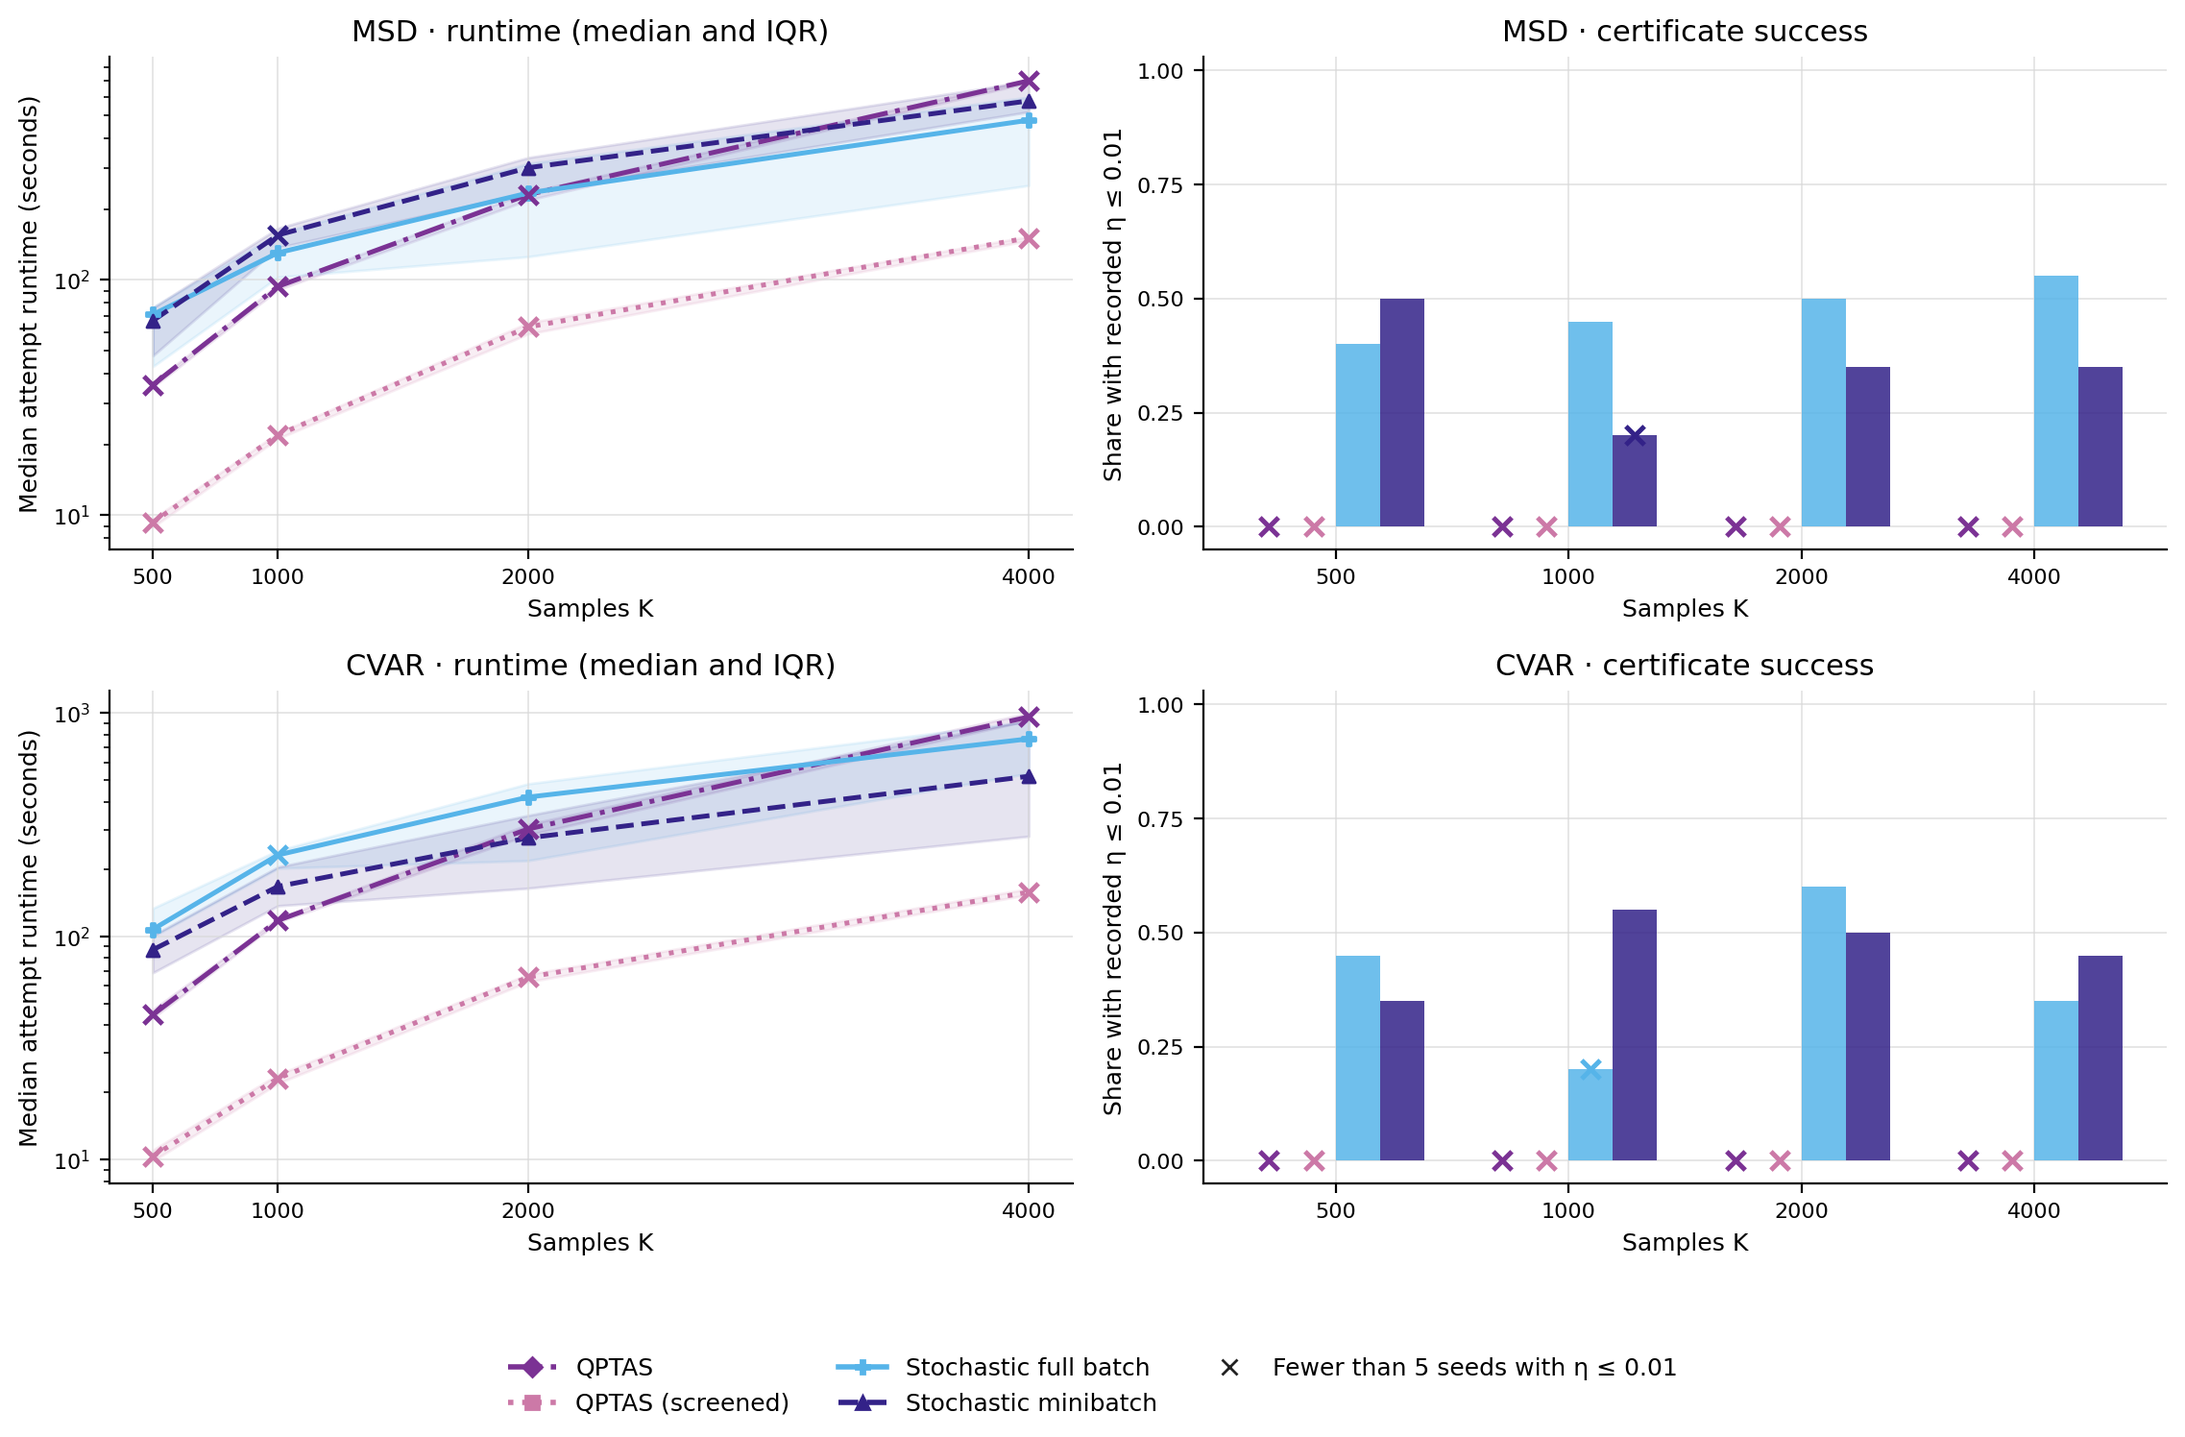
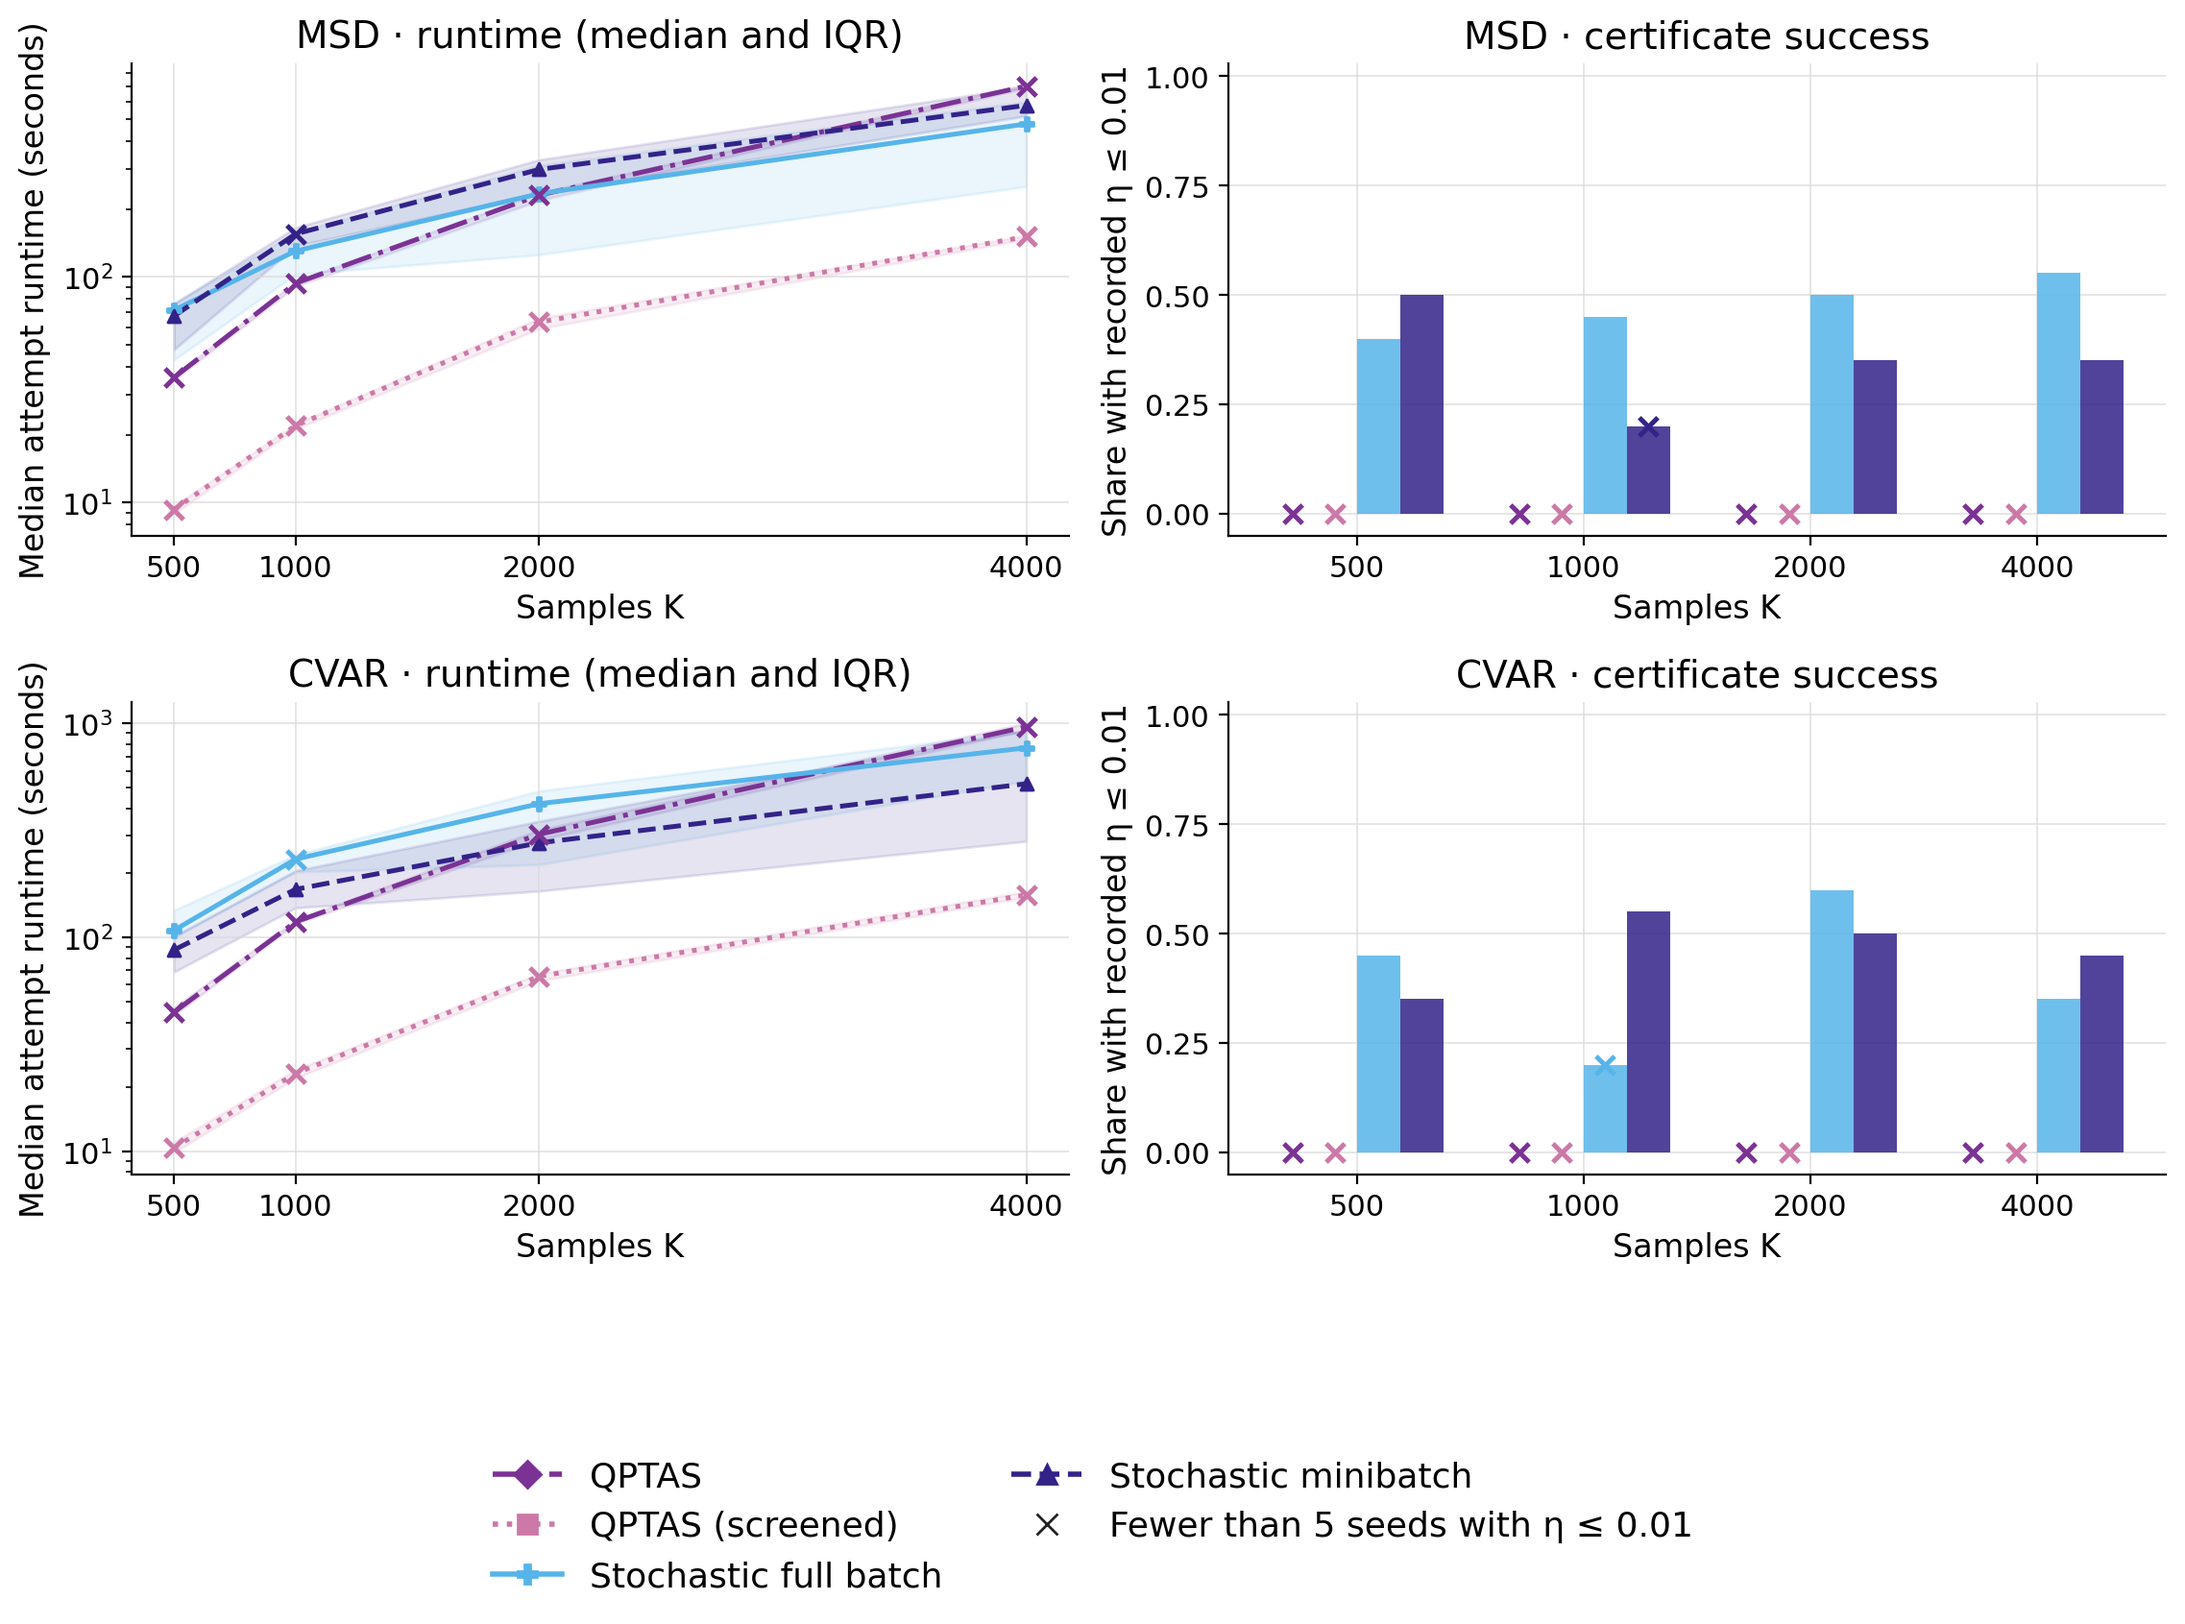
ruffed

diff --git a/experiments/analysis/generate_readme_figures.py b/experiments/analysis/generate_readme_figures.py
@@ -94,33 +94,20 @@ METHOD_MARKERS = {
 def load_population_data() -> pd.DataFrame:
     """Load the completed v2 campaign, requiring all 20 matched seeds per cell."""
 
-    data = pd.read_csv(
-        result_path("population_qptas_fo/beta_uniform_v2", "capped_method_results.csv")
-    )
+    data = pd.read_csv(result_path("population_qptas_fo/beta_uniform_v2", "capped_method_results.csv"))
     expected = pd.MultiIndex.from_product(
         [RISK_GRID, [50], POPULATION_K_GRID, POPULATION_METHODS],
         names=["risk", "n", "K", "method"],
     )
     cells = data.groupby(["risk", "n", "K", "method"])
     counts = cells.size().reindex(expected)
-    if (
-        len(data) != 640
-        or not counts.eq(20).all()
-        or not cells["seed"].nunique().eq(20).all()
-    ):
-        raise ValueError(
-            "Population v2 must contain 20 distinct seeds for every method cell"
-        )
+    if len(data) != 640 or not counts.eq(20).all() or not cells["seed"].nunique().eq(20).all():
+        raise ValueError("Population v2 must contain 20 distinct seeds for every method cell")
     matched = data.groupby(["risk", "n", "K", "seed"])["method"].nunique()
     if not matched.eq(len(POPULATION_METHODS)).all():
         raise ValueError("Population v2 methods must use matching game seeds")
-    if (
-        not data["payoff_model"].eq("cell_beta_uniform_v1").all()
-        or not data["status"].eq("completed").all()
-    ):
-        raise ValueError(
-            "Population v2 must contain completed heterogeneous-population runs"
-        )
+    if not data["payoff_model"].eq("cell_beta_uniform_v1").all() or not data["status"].eq("completed").all():
+        raise ValueError("Population v2 must contain completed heterogeneous-population runs")
     if not np.isfinite(data["time_s"]).all() or not data["time_s"].gt(0).all():
         raise ValueError("Population v2 must have finite positive attempt runtimes")
     return data
@@ -129,53 +116,29 @@ def load_population_data() -> pd.DataFrame:
 def load_scalability_data() -> pd.DataFrame:
     """Load eight algorithms on matched game seeds."""
 
-    msd_wide = sa.load_csv_shards(
-        result_path("scalability/msd_cvar_original"), "*K*_n*.csv"
-    )
+    msd_wide = sa.load_csv_shards(result_path("scalability/msd_cvar_original"), "*K*_n*.csv")
     msd_wide = msd_wide.loc[msd_wide["risk"].eq("msd")].copy()
 
-    capped = pd.read_csv(
-        result_path("scalability/cvar_capped_24h_v1", "capped_method_results.csv")
-    )
-    cvar_wide = sa.capped_results_to_wide(
-        capped, expected_methods=sa.SCALABILITY_METHODS
-    )
+    capped = pd.read_csv(result_path("scalability/cvar_capped_24h_v1", "capped_method_results.csv"))
+    cvar_wide = sa.capped_results_to_wide(capped, expected_methods=sa.SCALABILITY_METHODS)
     wide = pd.concat([msd_wide, cvar_wide], ignore_index=True, sort=False)
     # The calibrated campaign replaces the historical FO measurements.
-    legacy_methods = tuple(
-        method for method in sa.SCALABILITY_METHODS if method not in CALIBRATED_METHODS
-    )
+    legacy_methods = tuple(method for method in sa.SCALABILITY_METHODS if method not in CALIBRATED_METHODS)
     long = sa.wide_scalability_to_long(wide, methods=legacy_methods)
 
-    qptas = pd.read_csv(
-        result_path("qptas_scalability/sampled_1000_v1", "capped_method_results.csv")
-    )
+    qptas = pd.read_csv(result_path("qptas_scalability/sampled_1000_v1", "capped_method_results.csv"))
     qptas_wide = sa.capped_results_to_wide(qptas, expected_methods=("qptas",))
     qptas_long = sa.wide_scalability_to_long(qptas_wide, methods=("qptas",))
 
-    calibrated = pd.read_csv(
-        result_path("uniform_qptas_fo/calibrated_v1", "capped_method_results.csv")
-    )
-    if (
-        not calibrated["payoff_model"].eq("uniform").all()
-        or not calibrated["epsilon"].eq(EPSILON).all()
-    ):
-        raise ValueError(
-            "Calibrated uniform-game results must use uniform payoffs and epsilon=0.01"
-        )
-    calibrated_wide = sa.capped_results_to_wide(
-        calibrated, expected_methods=CALIBRATED_METHODS
-    )
-    calibrated_long = sa.wide_scalability_to_long(
-        calibrated_wide, methods=CALIBRATED_METHODS
-    )
+    calibrated = pd.read_csv(result_path("uniform_qptas_fo/calibrated_v1", "capped_method_results.csv"))
+    if not calibrated["payoff_model"].eq("uniform").all() or not calibrated["epsilon"].eq(EPSILON).all():
+        raise ValueError("Calibrated uniform-game results must use uniform payoffs and epsilon=0.01")
+    calibrated_wide = sa.capped_results_to_wide(calibrated, expected_methods=CALIBRATED_METHODS)
+    calibrated_long = sa.wide_scalability_to_long(calibrated_wide, methods=CALIBRATED_METHODS)
     long = pd.concat([long, qptas_long, calibrated_long], ignore_index=True, sort=False)
 
     long = long.loc[
-        long["risk"].isin(RISK_GRID)
-        & long["n"].isin(N_GRID)
-        & long["K"].isin(K_GRID)
-        & long["method"].isin(METHODS)
+        long["risk"].isin(RISK_GRID) & long["n"].isin(N_GRID) & long["K"].isin(K_GRID) & long["method"].isin(METHODS)
     ].copy()
 
     attempt_times = pd.to_numeric(long["time_s"], errors="coerce")
@@ -186,21 +149,11 @@ def load_scalability_data() -> pd.DataFrame:
     cells = primary.groupby(["risk", "n", "K", "method"], dropna=False)
     cell_counts = cells.size()
     expected_cells = len(RISK_GRID) * len(N_GRID) * len(K_GRID) * len(METHODS)
-    if (
-        len(cell_counts) != expected_cells
-        or not cell_counts.eq(20).all()
-        or not cells["seed"].nunique().eq(20).all()
-    ):
-        raise ValueError(
-            "Scalability data do not contain 20 distinct seeds for every plotted method cell"
-        )
-    matched_methods = primary.groupby(["risk", "n", "K", "seed"], dropna=False)[
-        "method"
-    ].nunique()
+    if len(cell_counts) != expected_cells or not cell_counts.eq(20).all() or not cells["seed"].nunique().eq(20).all():
+        raise ValueError("Scalability data do not contain 20 distinct seeds for every plotted method cell")
+    matched_methods = primary.groupby(["risk", "n", "K", "seed"], dropna=False)["method"].nunique()
     if not matched_methods.eq(len(METHODS)).all():
-        raise ValueError(
-            "Scalability methods do not use the same seeds within each plotted cell"
-        )
+        raise ValueError("Scalability methods do not use the same seeds within each plotted cell")
 
     return long
 
@@ -234,7 +187,7 @@ def _method_legend(methods: tuple[str, ...]) -> list[Line2D]:
             marker=METHOD_MARKERS[method],
             linestyle=METHOD_LINESTYLES[method],
             linewidth=2,
-            markersize=5,
+            markersize=7,
             label=METHOD_LABELS[method],
         )
         for method in methods
@@ -246,16 +199,14 @@ def _method_legend(methods: tuple[str, ...]) -> list[Line2D]:
             color="#222222",
             marker="x",
             linestyle="none",
-            markersize=6,
+            markersize=8,
             label=f"Fewer than {MIN_SUCCESSFUL_SEEDS} seeds with η ≤ {EPSILON:g}",
         )
     )
     return handles
 
 
-def _plot_method_points(
-    ax, points: pd.DataFrame, method: str, value_column: str
-) -> None:
+def _plot_method_points(ax, points: pd.DataFrame, method: str, value_column: str) -> None:
     """Draw a method curve, replacing its marker when too few seeds certify."""
 
     color = METHOD_COLORS[method]
@@ -294,8 +245,8 @@ def plot_runtime(long: pd.DataFrame, output_path: Path) -> None:
     """Plot algorithm attempt runtimes with IQR bands."""
 
     summary = _summarize_certified_runs(long.loc[long["method"].isin(METHODS)])
-    fig, axes = plt.subplots(2, 4, figsize=(15.5, 8.5), sharex=True, sharey=True)
-    _style_axes(axes, tick_label_size=12)
+    fig, axes = plt.subplots(2, 4, figsize=(15.5, 9.5), sharex=True, sharey=True)
+    _style_axes(axes, tick_label_size=14)
 
     for row, risk in enumerate(RISK_GRID):
         for col, n in enumerate(N_GRID):
@@ -317,30 +268,26 @@ def plot_runtime(long: pd.DataFrame, output_path: Path) -> None:
                 )
 
             if risk == "cvar":
-                ax.axhline(
-                    CVaR_CAP_SECONDS, color="#555555", linestyle="--", linewidth=1
-                )
+                ax.axhline(CVaR_CAP_SECONDS, color="#555555", linestyle="--", linewidth=1)
             ax.set_yscale("log")
             ax.set_xticks(K_GRID)
-            ax.set_title(f"{risk.upper()} · n={n}", fontsize=14)
+            ax.set_title(f"{risk.upper()} · n={n}", fontsize=16)
             if row == len(RISK_GRID) - 1:
-                ax.set_xlabel("Samples K", fontsize=13)
+                ax.set_xlabel("Samples K", fontsize=15)
             if col == 0:
-                ax.set_ylabel("Median runtime (seconds)", fontsize=13)
+                ax.set_ylabel("Median runtime (seconds)", fontsize=15)
 
     handles = _method_legend(METHODS)
-    handles.append(
-        Line2D([0], [0], color="#555555", linestyle="--", label="CVaR 24-hour cap")
-    )
+    handles.append(Line2D([0], [0], color="#555555", linestyle="--", label="CVaR 24-hour cap"))
     fig.legend(
         handles=handles,
         loc="lower center",
         bbox_to_anchor=(0.5, 0.005),
-        ncol=3,
+        ncol=2,
         frameon=False,
-        fontsize=12,
+        fontsize=16,
     )
-    fig.tight_layout(rect=(0, 0.20, 1, 1))
+    fig.tight_layout(rect=(0, 0.26, 1, 1))
     fig.savefig(output_path, dpi=200, bbox_inches="tight", facecolor="white")
     plt.close(fig)
 
@@ -349,8 +296,8 @@ def plot_certificate_rate(long: pd.DataFrame, output_path: Path) -> None:
     """Plot the share of runs with a finite exact-regret certificate at eta <= 1e-2."""
 
     summary = _summarize_certified_runs(long.loc[long["method"].isin(METHODS)])
-    fig, axes = plt.subplots(2, 4, figsize=(15.5, 8.5), sharex=True, sharey=True)
-    _style_axes(axes, tick_label_size=12)
+    fig, axes = plt.subplots(2, 4, figsize=(15.5, 9.5), sharex=True, sharey=True)
+    _style_axes(axes, tick_label_size=14)
 
     for row, risk in enumerate(RISK_GRID):
         for col, n in enumerate(N_GRID):
@@ -365,23 +312,21 @@ def plot_certificate_rate(long: pd.DataFrame, output_path: Path) -> None:
             ax.set_xticks(K_GRID)
             ax.set_ylim(-0.03, 1.03)
             ax.set_yticks(np.linspace(0, 1, 5))
-            ax.set_title(f"{risk.upper()} · n={n}", fontsize=14)
+            ax.set_title(f"{risk.upper()} · n={n}", fontsize=16)
             if row == len(RISK_GRID) - 1:
-                ax.set_xlabel("Samples K", fontsize=13)
+                ax.set_xlabel("Samples K", fontsize=15)
             if col == 0:
-                ax.set_ylabel(
-                    r"Share with exact-regret $\eta \leq 10^{-2}$", fontsize=13
-                )
+                ax.set_ylabel("Share with exact-regret\n" r"$\eta \leq 10^{-2}$", fontsize=15)
 
     fig.legend(
         handles=_method_legend(METHODS),
         loc="lower center",
         bbox_to_anchor=(0.5, 0.005),
-        ncol=3,
+        ncol=2,
         frameon=False,
-        fontsize=12,
+        fontsize=16,
     )
-    fig.tight_layout(rect=(0, 0.20, 1, 1))
+    fig.tight_layout(rect=(0, 0.26, 1, 1))
     fig.savefig(output_path, dpi=200, bbox_inches="tight", facecolor="white")
     plt.close(fig)
 
@@ -390,8 +335,8 @@ def plot_population_results(long: pd.DataFrame, output_path: Path) -> None:
     """Plot all-attempt runtime and recorded success for the separate v2 design."""
 
     summary = _summarize_certified_runs(long)
-    fig, axes = plt.subplots(2, 2, figsize=(11.5, 7.5))
-    _style_axes(axes)
+    fig, axes = plt.subplots(2, 2, figsize=(11.5, 8.5))
+    _style_axes(axes, tick_label_size=11)
     positions = np.arange(len(POPULATION_K_GRID))
     width = 0.19
     for row, risk in enumerate(RISK_GRID):
@@ -430,32 +375,30 @@ def plot_population_results(long: pd.DataFrame, output_path: Path) -> None:
             )
         runtime.set_yscale("log")
         runtime.set_xticks(POPULATION_K_GRID)
-        runtime.set_ylabel("Median attempt runtime (seconds)", fontsize=9)
+        runtime.set_ylabel("Median attempt runtime (seconds)", fontsize=12)
         rates.set_xticks(positions, POPULATION_K_GRID)
         rates.set_ylim(-0.05, 1.03)
         rates.set_yticks(np.linspace(0, 1, 5))
-        rates.set_ylabel("Share with recorded η ≤ 0.01", fontsize=9)
-        runtime.set_title(f"{risk.upper()} · runtime (median and IQR)", fontsize=11)
-        rates.set_title(f"{risk.upper()} · certificate success", fontsize=11)
+        rates.set_ylabel("Share with recorded η ≤ 0.01", fontsize=12)
+        runtime.set_title(f"{risk.upper()} · runtime (median and IQR)", fontsize=14)
+        rates.set_title(f"{risk.upper()} · certificate success", fontsize=14)
         for ax in (runtime, rates):
-            ax.set_xlabel("Samples K", fontsize=9)
+            ax.set_xlabel("Samples K", fontsize=12)
     fig.legend(
         handles=_method_legend(POPULATION_METHODS),
         loc="lower center",
-        ncol=3,
+        ncol=2,
         frameon=False,
-        fontsize=9,
+        fontsize=13,
     )
-    fig.tight_layout(rect=(0, 0.10, 1, 1))
+    fig.tight_layout(rect=(0, 0.20, 1, 1))
     fig.savefig(output_path, dpi=200, bbox_inches="tight", facecolor="white")
     plt.close(fig)
 
 
 def main() -> None:
     parser = argparse.ArgumentParser(description=__doc__)
-    parser.add_argument(
-        "--study", choices=("scalability", "population", "all"), default="all"
-    )
+    parser.add_argument("--study", choices=("scalability", "population", "all"), default="all")
     args = parser.parse_args()
     OUTPUT_DIR.mkdir(parents=True, exist_ok=True)
     if args.study in ("scalability", "all"):
@@ -463,9 +406,7 @@ def main() -> None:
         plot_runtime(long, OUTPUT_DIR / "scalability_runtime.png")
         plot_certificate_rate(long, OUTPUT_DIR / "scalability_certificate_rate.png")
     if args.study in ("population", "all"):
-        plot_population_results(
-            load_population_data(), OUTPUT_DIR / "population_beta_uniform_v2.png"
-        )
+        plot_population_results(load_population_data(), OUTPUT_DIR / "population_beta_uniform_v2.png")
     print(f"Wrote README figures to {OUTPUT_DIR.relative_to(ROOT)}")
 
 
